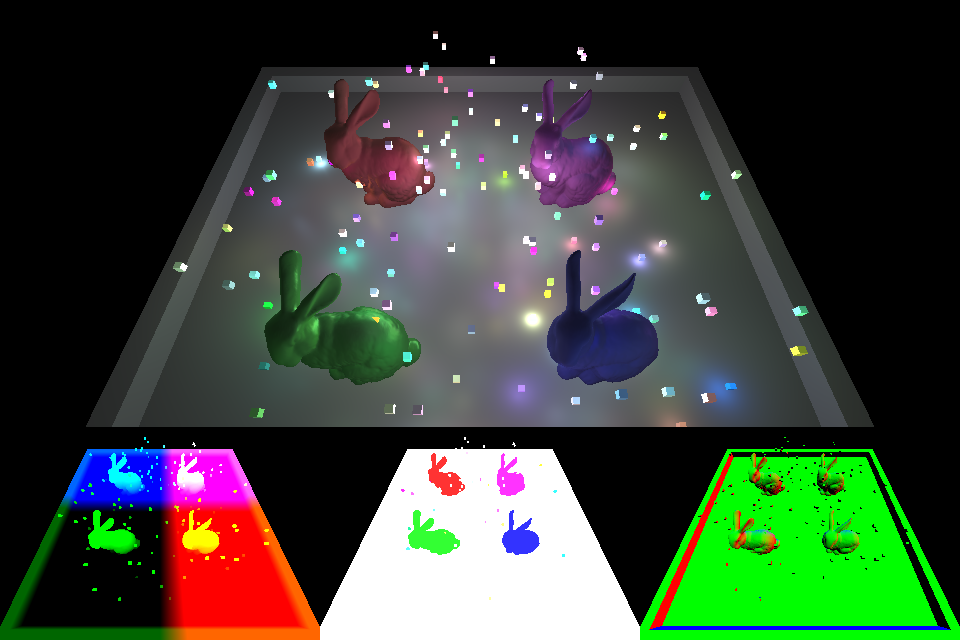
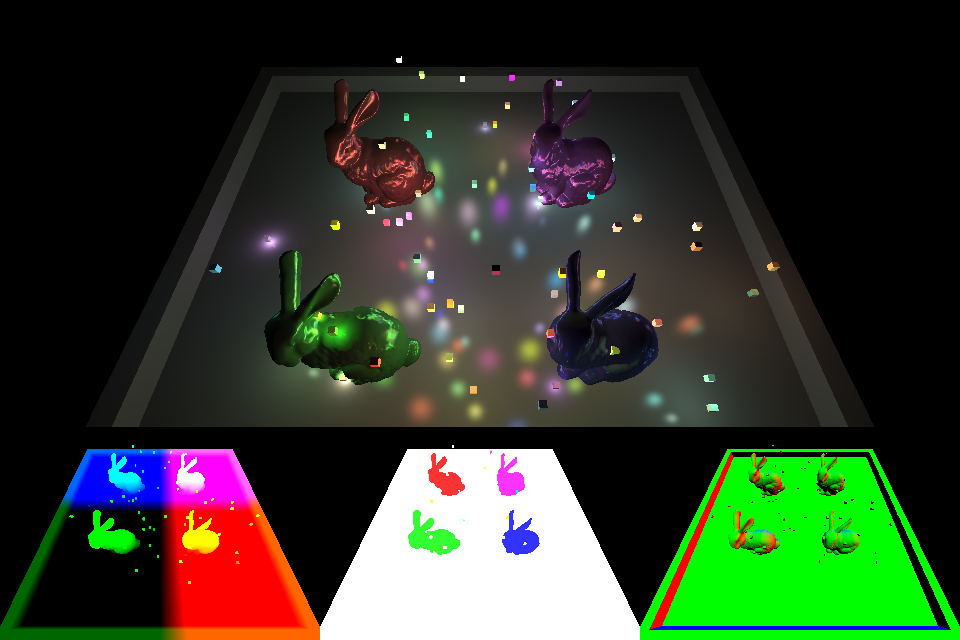
Fixed previous bug by allocating Lights on the heap. Tweaked DeferredSample shaders a bit.

diff --git a/samples/DeferredSample/src/DeferredSample.cpp b/samples/DeferredSample/src/DeferredSample.cpp
@@ -36,7 +36,8 @@ void DeferredSample::createObject(Clair::Mesh* mesh,
 }
 
 void DeferredSample::resetLights() {
-	for (auto& light : mLights) {
+	for (int i {0}; i < NUM_LIGHTS; ++i) {
+		auto& light = mLights[i];
 		light.color = vec3{Random::randomFloat(), Random::randomFloat(),
 					   Random::randomFloat()};
 		light.intensity = Random::randomFloat(0.5f, 1.0f) /
@@ -103,6 +104,7 @@ bool DeferredSample::initialize(const HWND hwnd) {
 	createObject(bunnyMesh, {1.0f, 0.2f, 1.0f, 1.0f},
 				 value_ptr(translate(vec3{2.0f, 0.0f, 2.0f})));
 
+	mLights = new Light[NUM_LIGHTS];
 	resetLights();
 
 	// Light debug objects
@@ -110,7 +112,8 @@ bool DeferredSample::initialize(const HWND hwnd) {
 	auto cubeMesh = Clair::ResourceManager::createMesh();
 	cubeMesh->initialize(cubeMeshData.get());
 	mLightDebugScene = Clair::ResourceManager::createScene();
-	for (auto& light : mLights) {
+	for (int i {0}; i < NUM_LIGHTS; ++i) {
+		auto& light = mLights[i];
 		light.debugObj = mLightDebugScene->createObject();
 		light.debugObj->setMesh(cubeMesh);
 		light.debugObj->setMaterial(CLAIR_RENDER_PASS(0), mGeometryMat);
@@ -123,6 +126,7 @@ bool DeferredSample::initialize(const HWND hwnd) {
 }
 
 void DeferredSample::terminate() {
+	delete[] mLights;
 	delete mGBuffer;
 	Clair::terminate();
 }

diff --git a/samples/DeferredSample/include/DeferredSample.h b/samples/DeferredSample/include/DeferredSample.h
@@ -49,5 +49,5 @@ private:
 		float rotationSpeed {1.0f};
 		float offset {0.0f};
 	};
-	std::array<Light, NUM_LIGHTS> mLights;
+	Light* mLights {nullptr};
 };
